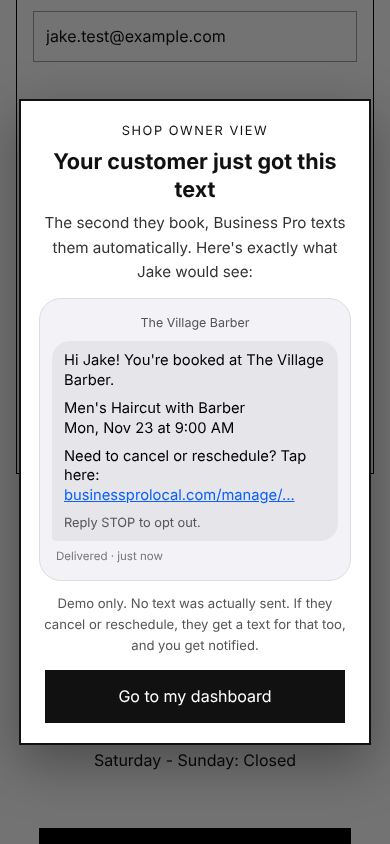
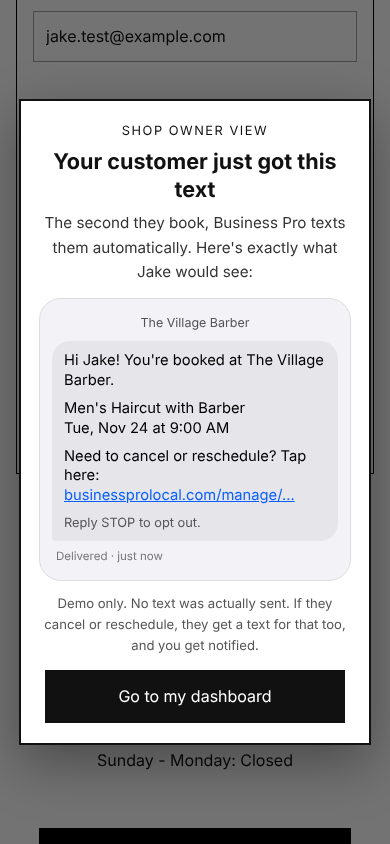
Village Barber preview: hours Tue-Sat 9-5, closed Sun-Mon (booking calendar matches)
Claude-Session: https://claude.ai/code/session_01AscvygATNZzue8XbRA3PMG

Changed region(s): [[0.2462, 0.8934, 0.7692, 0.9242], [0.1538, 0.4929, 0.6154, 0.5237]]

diff --git a/DEMOS/village-barber/client-config.js b/DEMOS/village-barber/client-config.js
@@ -35,7 +35,7 @@ window.SHOP_CONFIG = {
     heroSubtitle: "This is a preview of your new website. Book an appointment like your customer would, then see what you'd see as the owner.",
     addressLine1: "751 Main St (Park Place)", addressLine2: "Sanford, Maine",
     phoneDisplay: "(207) 849-0126", phoneLink: "2078490126", email: "",
-    hours: [{ days: "Monday - Friday", hours: "9:00 AM - 5:00 PM" }, { days: "Saturday - Sunday", hours: "Closed" }]
+    hours: [{ days: "Tuesday - Saturday", hours: "9:00 AM - 5:00 PM" }, { days: "Sunday - Monday", hours: "Closed" }]
   },
   services: [
     { id: "mens-haircut", name: "Men's Haircut", price: 20, description: "A classic cut, finished clean." },
@@ -47,7 +47,7 @@ window.SHOP_CONFIG = {
   booking: { appointmentLengthMinutes: 30 },
   barbers: [
     { id: "owner", name: "Barber", photo: "images/barber.jpg", cardSpecialty: "Owner & barber", bio: "Your own words about you and your shop go here.",
-      serviceIds: ["mens-haircut", "hair-beard", "buzz-cut", "buzz-beard", "beard"], schedule: { workingDays: [1, 2, 3, 4, 5], startTime: "09:00", endTime: "17:00" } }
+      serviceIds: ["mens-haircut", "hair-beard", "buzz-cut", "buzz-beard", "beard"], schedule: { workingDays: [2, 3, 4, 5, 6], startTime: "09:00", endTime: "17:00" } }
   ],
   photos: [
     { src: "images/shop-inside.jpg", alt: "Inside The Village Barber" },

diff --git a/DEMOS/village-barber/index.html b/DEMOS/village-barber/index.html
@@ -13,7 +13,7 @@
 <body data-page="home">
   <div id="demo-app"></div>
   <noscript>The Village Barber. Enable JavaScript to view this preview.</noscript>
-  <script src="client-config.js?v=20261122e"></script>
+  <script src="client-config.js?v=20261122f"></script>
   <script src="../../CUSTOMER/demo-core.js?v=20261118c"></script>
   <script src="../../CUSTOMER/form-helpers.js?v=20261118c"></script>
   <script src="../../CUSTOMER/demo-barcode.js?v=20261118c"></script>
